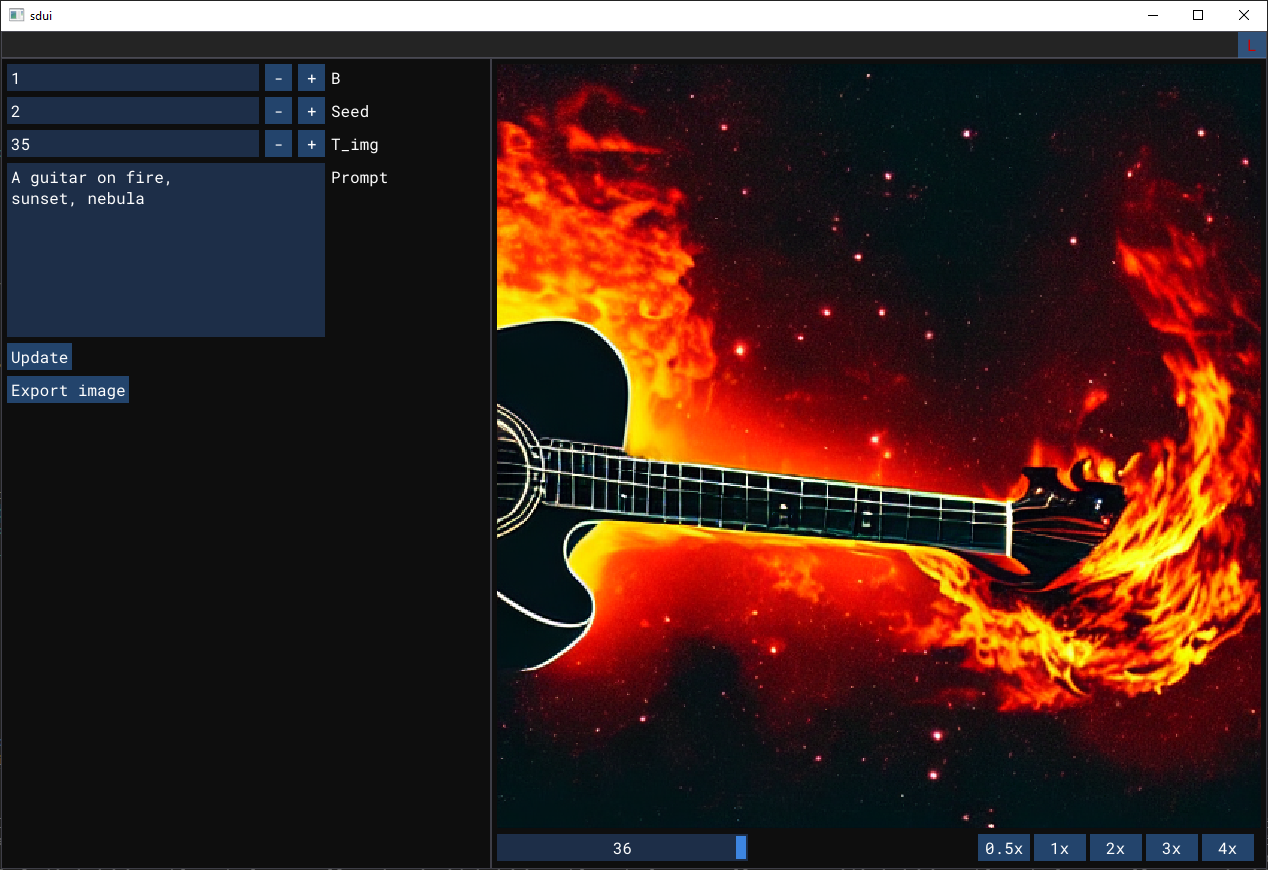
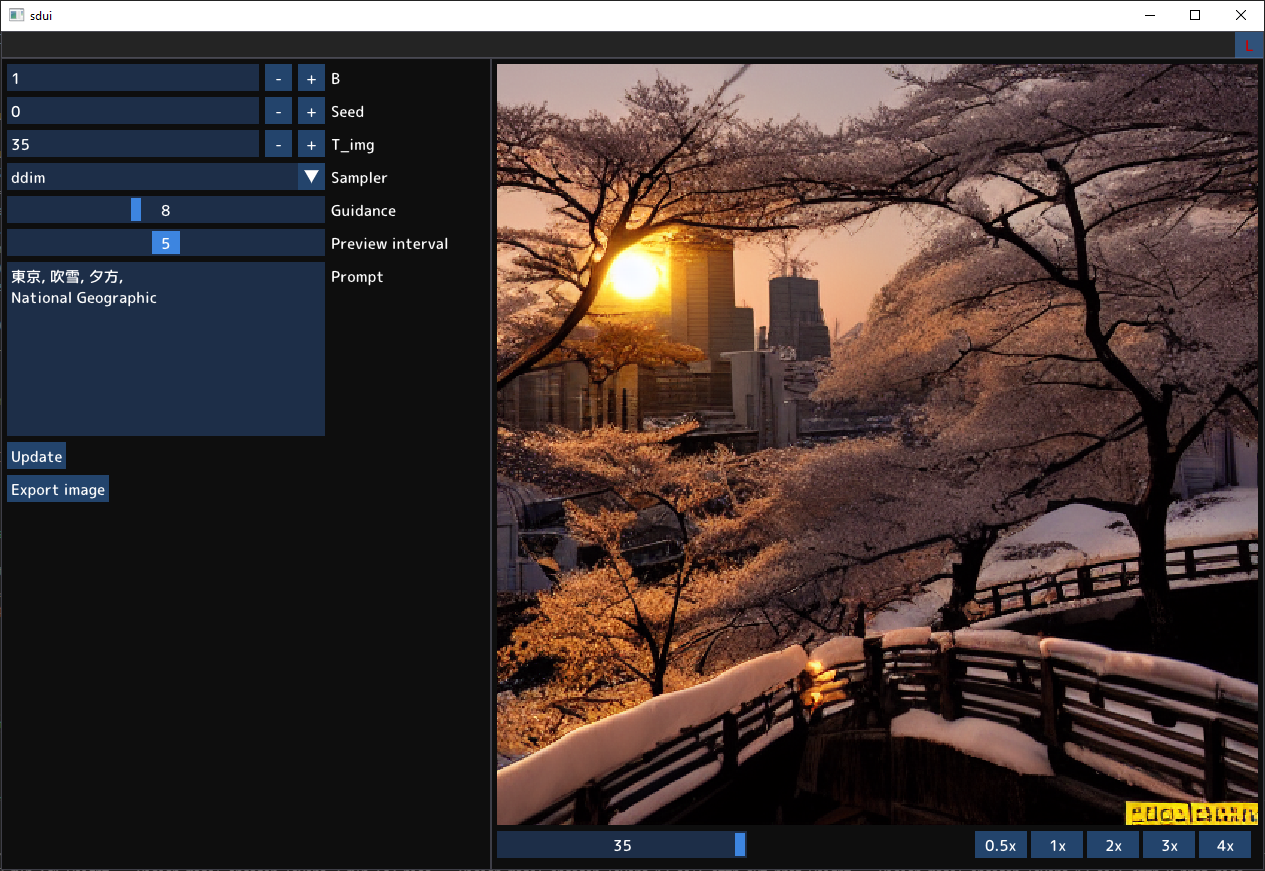
Preview interval slider

diff --git a/interactive.py b/interactive.py
@@ -300,7 +300,8 @@ class ModelViz(ToolbarViewer):
                         raise UserAbort
                     
                     # Always show after last iter
-                    if self.state_soft.show_preview or self.rend.i >= s.T:
+                    p = self.state_soft.preview_interval
+                    if self.rend.i >= s.T or (p > 0 and i % p == 0):
                         x_samples_ddim = model.decode_first_stage(img_curr)
                         self.rend.intermed = torch.clamp((x_samples_ddim + 1.0) / 2.0, min=0.0, max=1.0) # [1, 3, 512, 512]
                         grid = reshape_grid(self.rend.intermed) # => HWC
@@ -331,9 +332,9 @@ class ModelViz(ToolbarViewer):
         s.seed = max(0, imgui.input_int('Seed', s.seed, s.B, 1)[1])
         s.T = imgui.input_int('T_img', s.T, 1, jmp_large)[1]
         scale_fmt = '%.2f' if np.modf(s.guidance_scale)[0] > 0 else '%.0f' # dynamically change from ints to floats
-        s.guidance_scale = imgui.slider_float('Guidance', s.guidance_scale, 0, 20, format=scale_fmt)[1]
         s.sampler_type = combo_box_vals('Sampler', ['ddim', 'plms'], s.sampler_type)[1]
-        self.state_soft.show_preview = imgui.checkbox('Interactive preview', self.state_soft.show_preview)[1]
+        s.guidance_scale = imgui.slider_float('Guidance', s.guidance_scale, 0, 20, format=scale_fmt)[1]
+        self.state_soft.preview_interval = imgui.slider_int('Preview interval', self.state_soft.preview_interval, 0, 10)[1]
         self.prompt_curr = imgui.input_text_multiline('Prompt', self.prompt_curr, buffer_length=2048)[1]
         if imgui.button('Update'):
             s.prompt = self.prompt_curr
@@ -347,19 +348,19 @@ class ModelViz(ToolbarViewer):
 class UIState:
     pkl: str = 'models/ldm/stable-diffusion-v1/model.ckpt'
     T: int = 35
-    seed: int = 2
+    seed: int = 0
     B: int = 1
     guidance_scale: float = 8.0 # classifier guidance
-    sampler_type: str = 'plms' # plms, ddim
+    sampler_type: str = 'ddim' # plms, ddim
     prompt: str = dedent('''
-        A guitar on fire,
-        sunset, nebula
+        東京, 吹雪, 夕方,
+        National Geographic
         ''').strip()
 
 # Non-volatile: changes don't force recomputation
 @dataclass
 class UIStateSoft:
-    show_preview: bool = True
+    preview_interval: int = 5
 
 @dataclass
 class RendererState:
